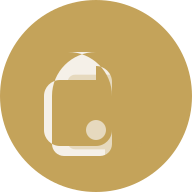
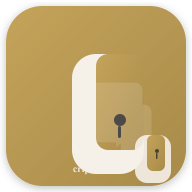
PWA: install button com fechar (✕) + novos ícones lock/chat
index.html:
- Botão "Instalar app" agora é um container com 2 botões:
  - "📱 Instalar app" → abre prompt nativo do navegador
  - "✕" (canto superior direito) → oculta e salva no localStorage (pwa_install_dismissed=true)
- Persistência: se usuário fechar, botão não reaparece nem após reload
- Action button mantém onclick handler para deferredPrompt.prompt()

icons/:
- icon-512-new.svg / icon-192-new.svg: novo design com
  - Background: rounded square com gradiente dourado (#c4a35a → #a88b4a) + sombra
  - Lock principal estilizado (shackle + keyhole)
  - Chat bubbles decorativos (opacity 15%)
  - Mini-lock no canto (brand mark)
  - Wordmark "cripto.chat" na base
- PNGs regenerados: icon-512.png, icon-192.png + versões maskable
- Manifest aponta para os PNGs atualizados

Changed region(s): [[0.0, 0.0312, 1.0, 1.0], [0.3438, 0.0, 0.6562, 0.0312]]

diff --git a/index.html b/index.html
@@ -3144,12 +3144,22 @@ Rápida                                     Mais lenta (por isso o AES cuida do 
 
     // PWA Install prompt handling
     let deferredPrompt = null;
-    const installBtn = document.createElement('button');
+    let installDismissed = localStorage.getItem('pwa_install_dismissed') === 'true';
+    const installBtn = document.createElement('div');
     installBtn.id = 'pwaInstallBtn';
-    installBtn.className = 'btn-secondary';
-    installBtn.style.cssText = 'position:fixed;bottom:16px;right:16px;z-index:9999;padding:10px 14px;border-radius:24px;box-shadow:0 4px 12px rgba(0,0,0,.2);font-size:13px;display:none;align-items:center;gap:6px;';
-    installBtn.innerHTML = '📱 Instalar app';
-    installBtn.onclick = async () => {
+    installBtn.style.cssText = 'position:fixed;bottom:16px;right:16px;z-index:9999;display:none;';
+    installBtn.innerHTML = `
+        <button class="btn-secondary" id="pwaInstallAction" style="padding:10px 14px;border-radius:24px;box-shadow:0 4px 12px rgba(0,0,0,.2);font-size:13px;display:flex;align-items:center;gap:6px;">
+            📱 Instalar app
+        </button>
+        <button id="pwaInstallClose" style="position:absolute;top:-8px;right:-8px;width:24px;height:24px;border-radius:50%;background:var(--painel-bg);border:1px solid var(--painel-borda);font-size:14px;cursor:pointer;display:flex;align-items:center;justify-content:center;color:var(--texto-fraco);line-height:1;" title="Ocultar">✕</button>
+    `;
+    if (!installDismissed) {
+        document.body.appendChild(installBtn);
+    }
+    const installActionBtn = document.getElementById('pwaInstallAction');
+    const installCloseBtn = document.getElementById('pwaInstallClose');
+    installActionBtn.onclick = async () => {
         if (!deferredPrompt) return;
         installBtn.style.display = 'none';
         deferredPrompt.prompt();
@@ -3157,7 +3167,11 @@ Rápida                                     Mais lenta (por isso o AES cuida do 
         console.log('[PWA] Install outcome:', outcome);
         deferredPrompt = null;
     };
-    document.body.appendChild(installBtn);
+    installCloseBtn.onclick = () => {
+        installBtn.style.display = 'none';
+        localStorage.setItem('pwa_install_dismissed', 'true');
+        console.log('[PWA] Install prompt dismissed by user');
+    };
 
     window.addEventListener('beforeinstallprompt', (e) => {
         e.preventDefault();

diff --git a/convert-new-icons.js b/convert-new-icons.js
@@ -1,0 +1,36 @@
+const sharp = require('sharp');
+const fs = require('fs');
+const path = require('path');
+
+async function convert() {
+  const iconsDir = path.join(__dirname, 'icons');
+  
+  // Convert new 512
+  await sharp(path.join(iconsDir, 'icon-512-new.svg'))
+    .resize(512, 512)
+    .png()
+    .toFile(path.join(iconsDir, 'icon-512.png'));
+  console.log('Created icon-512.png (new)');
+  
+  // Convert new 192
+  await sharp(path.join(iconsDir, 'icon-192-new.svg'))
+    .resize(192, 192)
+    .png()
+    .toFile(path.join(iconsDir, 'icon-192.png'));
+  console.log('Created icon-192.png (new)');
+  
+  // Maskable versions (with padding)
+  await sharp(path.join(iconsDir, 'icon-512-new.svg'))
+    .resize(512, 512, { fit: 'contain', background: '#c4a35a' })
+    .png()
+    .toFile(path.join(iconsDir, 'icon-512-maskable.png'));
+  console.log('Created icon-512-maskable.png (new)');
+  
+  await sharp(path.join(iconsDir, 'icon-192-new.svg'))
+    .resize(192, 192, { fit: 'contain', background: '#c4a35a' })
+    .png()
+    .toFile(path.join(iconsDir, 'icon-192-maskable.png'));
+  console.log('Created icon-192-maskable.png (new)');
+}
+
+convert().catch(console.error);
